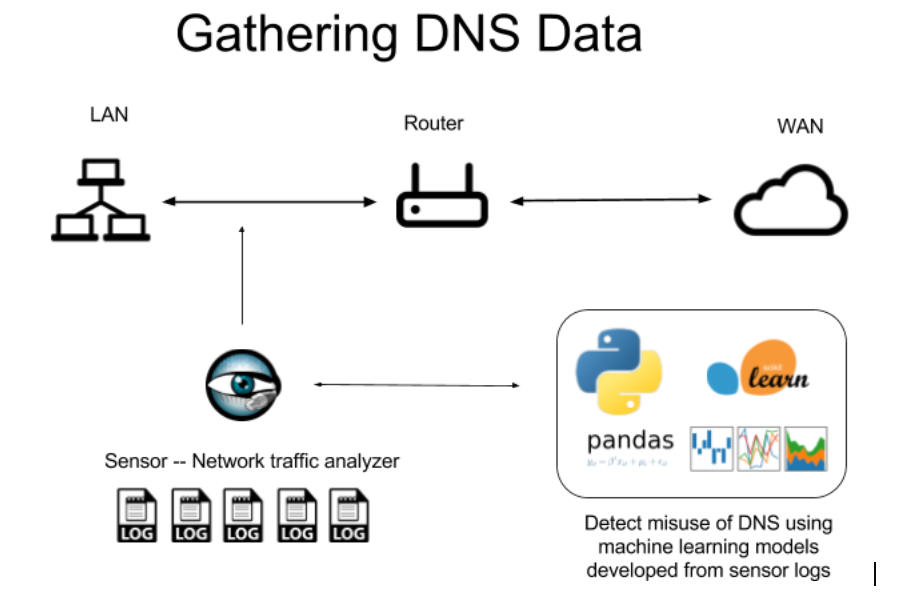
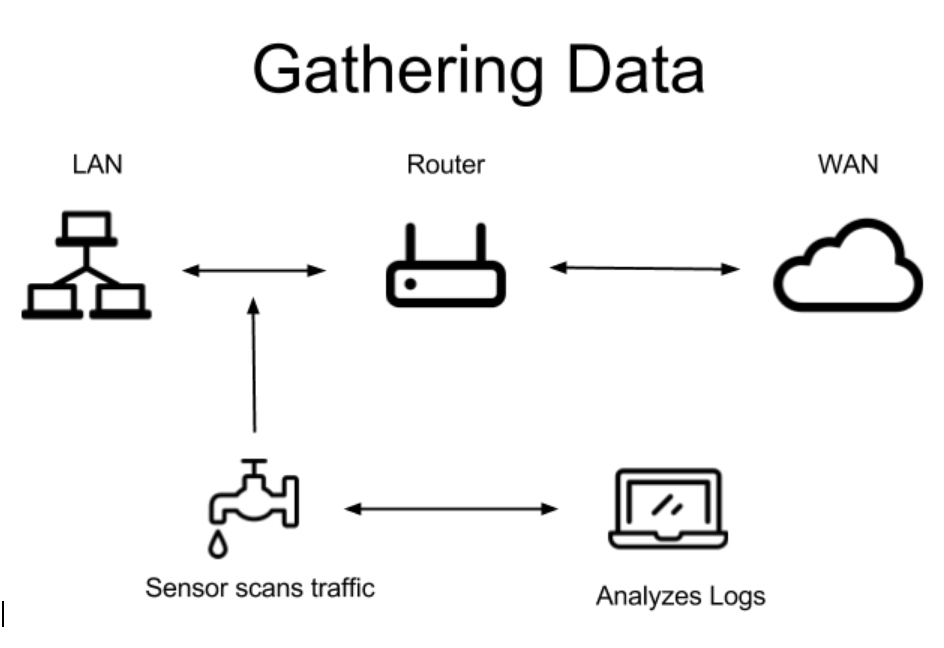
revising image files

diff --git a/README.md b/README.md
@@ -3,11 +3,12 @@
 Rob Osterburg, Galvanize DSI Fellow
 
 ### Motivation
-Mapping domain names to IP addresses, DNS is an essential service and access to it is pervasive.  Its importance to network operations means that it is routinely available for good uses and bad.
+IP addresses are hard to remember.  DNS maps domain names to IP addresses eliminating the need.  This makes for happy users and also provides a perfect backchannel for attackers to communicate unhindered through firewalls.
+
 
 ![DNS caching](./images/DNS_caching_forwarding.png)
 
-If the answer to a DNS query cannot be found locally, it is resolved through a recursive series of requests to find a server that can.  By registering domain names, attackers can easily route DNS traffic to their own servers.  Encoded within these packets is the information they seek to transmit.
+Attackers use DNS to steal information assets and command and control botnets.  My project focuses on detecting malicious uses of the DNS protocol.
 
 ![DNS name resolution](./images/DNS_name_resolution.png)
 
